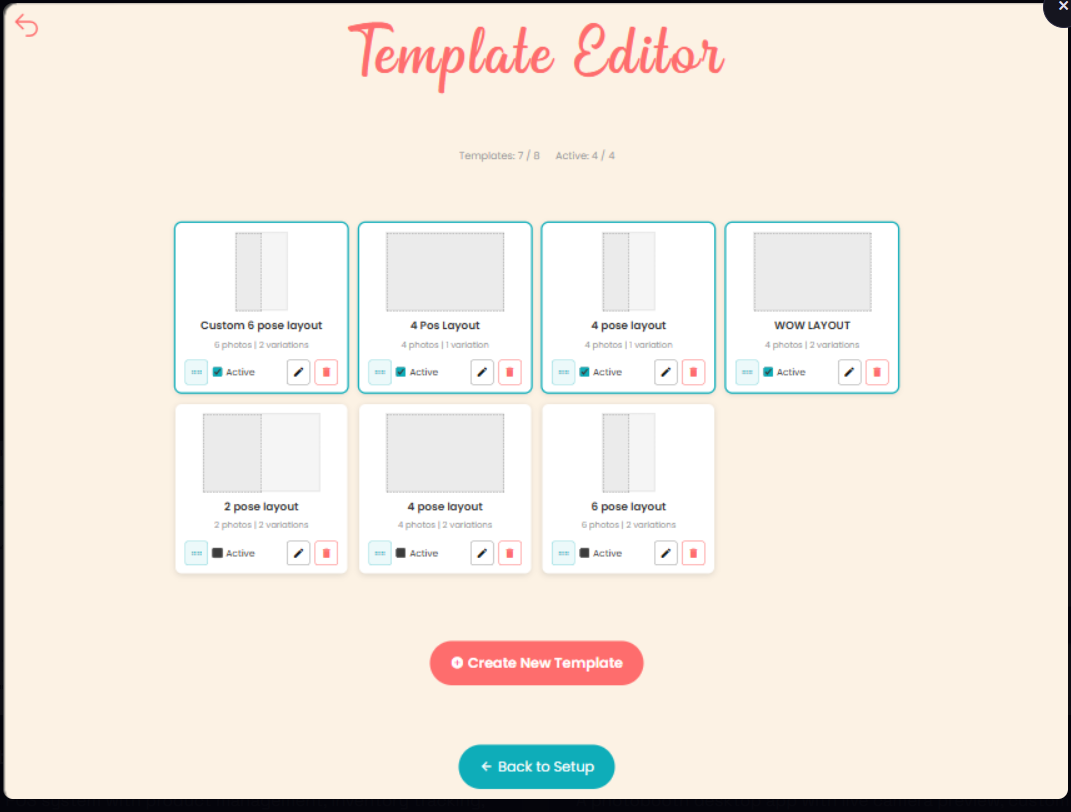
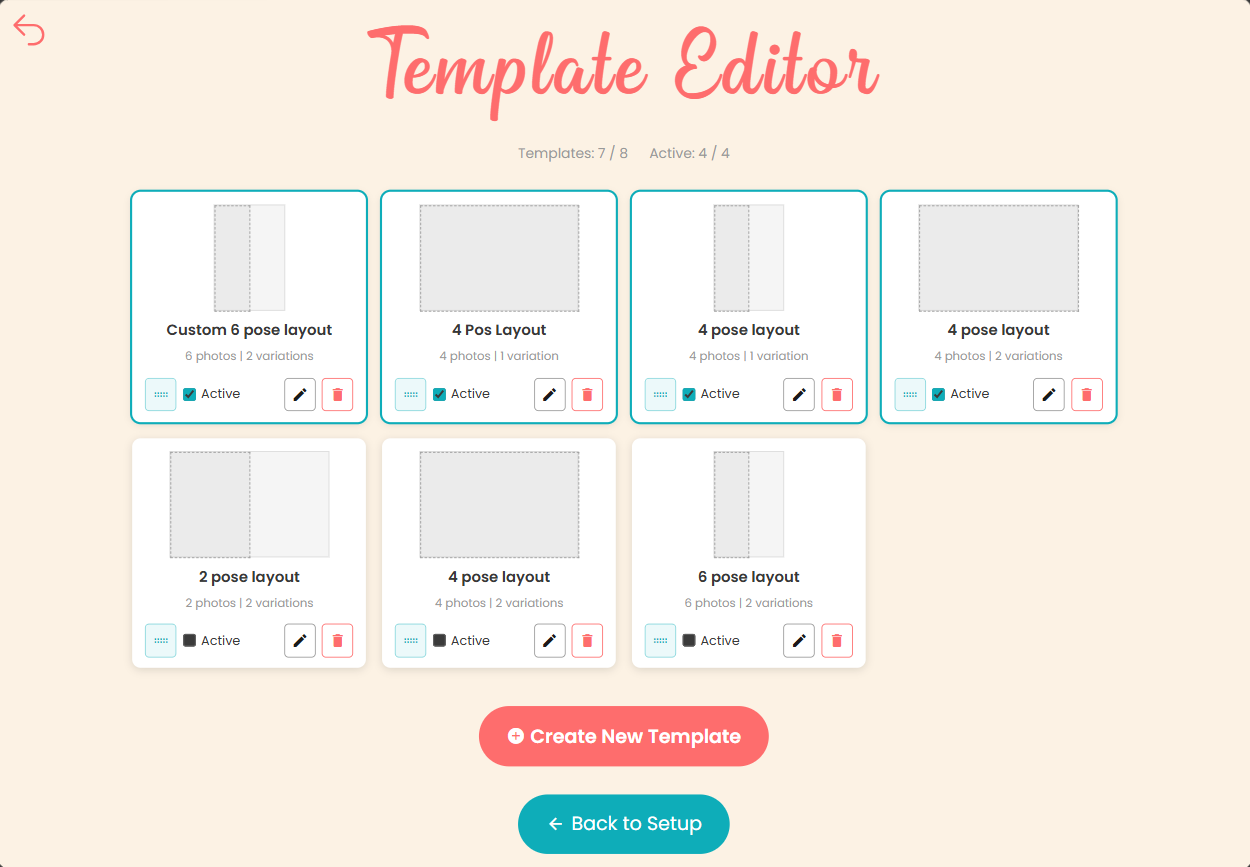
feat: updated the images and wording of explanations

Changed region(s): [[0.0, 0.0, 1.0, 1.0]]

diff --git a/public/website/index.html b/public/website/index.html
@@ -118,9 +118,6 @@
   .rel-row{display:flex;flex-wrap:wrap;gap:8px;margin-bottom:18px}
   .rel-row span{background:var(--teal-soft);color:#1f7d76;font-size:13px;font-weight:600;padding:6px 13px;border-radius:20px}
   .panel ul{margin:0;padding-left:20px;font-size:14.5px;color:var(--body);line-height:1.9}
-  .sha{margin-top:18px;font-size:12px;color:var(--muted)}
-  .sha code{display:block;margin-top:6px;background:var(--cream);border-radius:10px;padding:10px 12px;font-size:11px;word-break:break-all;color:var(--body)}
-  .sha button{margin-top:8px;background:none;border:1px solid var(--teal);color:var(--teal);border-radius:20px;padding:5px 14px;font-family:'Fredoka',sans-serif;font-weight:600;font-size:12.5px;cursor:pointer}
   .steps{margin:0;padding:0;list-style:none;counter-reset:step}
   .steps li{position:relative;padding:0 0 18px 46px;counter-increment:step;font-size:14.5px;color:var(--body);line-height:1.55}
   .steps li::before{content:counter(step);position:absolute;left:0;top:0;width:30px;height:30px;border-radius:50%;background:var(--coral-soft);color:var(--coral);font-weight:700;display:flex;align-items:center;justify-content:center;font-size:14px}
@@ -356,7 +353,7 @@
       <span>Android <span data-bind="minAndroid">8.0</span>+</span><span>&middot;</span>
       <span data-bind="size">89 MB</span><span>&middot;</span>
       <span>Released <span data-bind="date">Nov 30, 2025</span></span><span>&middot;</span>
-      <span>Free lifetime updates</span>
+      <span>Free updates</span>
     </div>
   </div>
 
@@ -371,11 +368,6 @@
       <ul id="releaseNotes">
         <li>Loading release notes&hellip;</li>
       </ul>
-      <div class="sha">
-        Verify your download (SHA-256):
-        <code id="shaValue">&hellip;</code>
-        <button id="shaCopy" type="button">Copy checksum</button>
-      </div>
     </div>
 
     <div class="panel">
@@ -462,8 +454,6 @@
       li.textContent = note;
       notes.appendChild(li);
     });
-
-    document.getElementById('shaValue').textContent = data.sha256 || 'n/a';
   }
 
   fetch('version.json', { cache: 'no-store' })
@@ -473,16 +463,6 @@
       document.getElementById('releaseNotes').innerHTML =
         '<li>Could not load release notes. The download button above still works.</li>';
     });
-
-  /* ---------- copy checksum ---------- */
-  document.getElementById('shaCopy').addEventListener('click', function () {
-    var text = document.getElementById('shaValue').textContent;
-    var btn = this;
-    navigator.clipboard.writeText(text).then(function () {
-      btn.textContent = 'Copied!';
-      setTimeout(function () { btn.textContent = 'Copy checksum'; }, 1600);
-    });
-  });
 
   /* ---------- update checker ---------- */
   function parseVersion(str) {
@@ -548,7 +528,7 @@
     },
     {
       q: 'How do activation keys work?',
-      a: 'Each key unlocks one premium feature (or the bundle) on one device. Message us through Facebook, Messenger, or email, pay via GCash or Maya, and you’ll receive a key to paste into the app’s Premium Access screen. Keys can be time-limited (30 to 365 days) or lifetime, depending on what you purchase.'
+      a: 'Each key unlocks one premium feature (or the bundle) on one device. Message us through Facebook, Messenger, or email, pay via GCash or Maya, and you’ll receive a key to paste into the app’s Premium Access screen. Keys are valid for 30 to 365 days, depending on the package you purchase.'
     },
     {
       q: 'How do I update the app?',
@@ -556,7 +536,7 @@
     },
     {
       q: 'Is installing an APK safe?',
-      a: 'The APK is the same signed build we ship for every event, and you can verify the SHA-256 checksum shown above after downloading. You’ll enable installs from your browser once on your device, then future updates install with a tap.'
+      a: 'The APK is the same signed build we ship for every event. You’ll enable installs from your browser once on your device, then future updates install with a tap.'
     }
   ];
 
